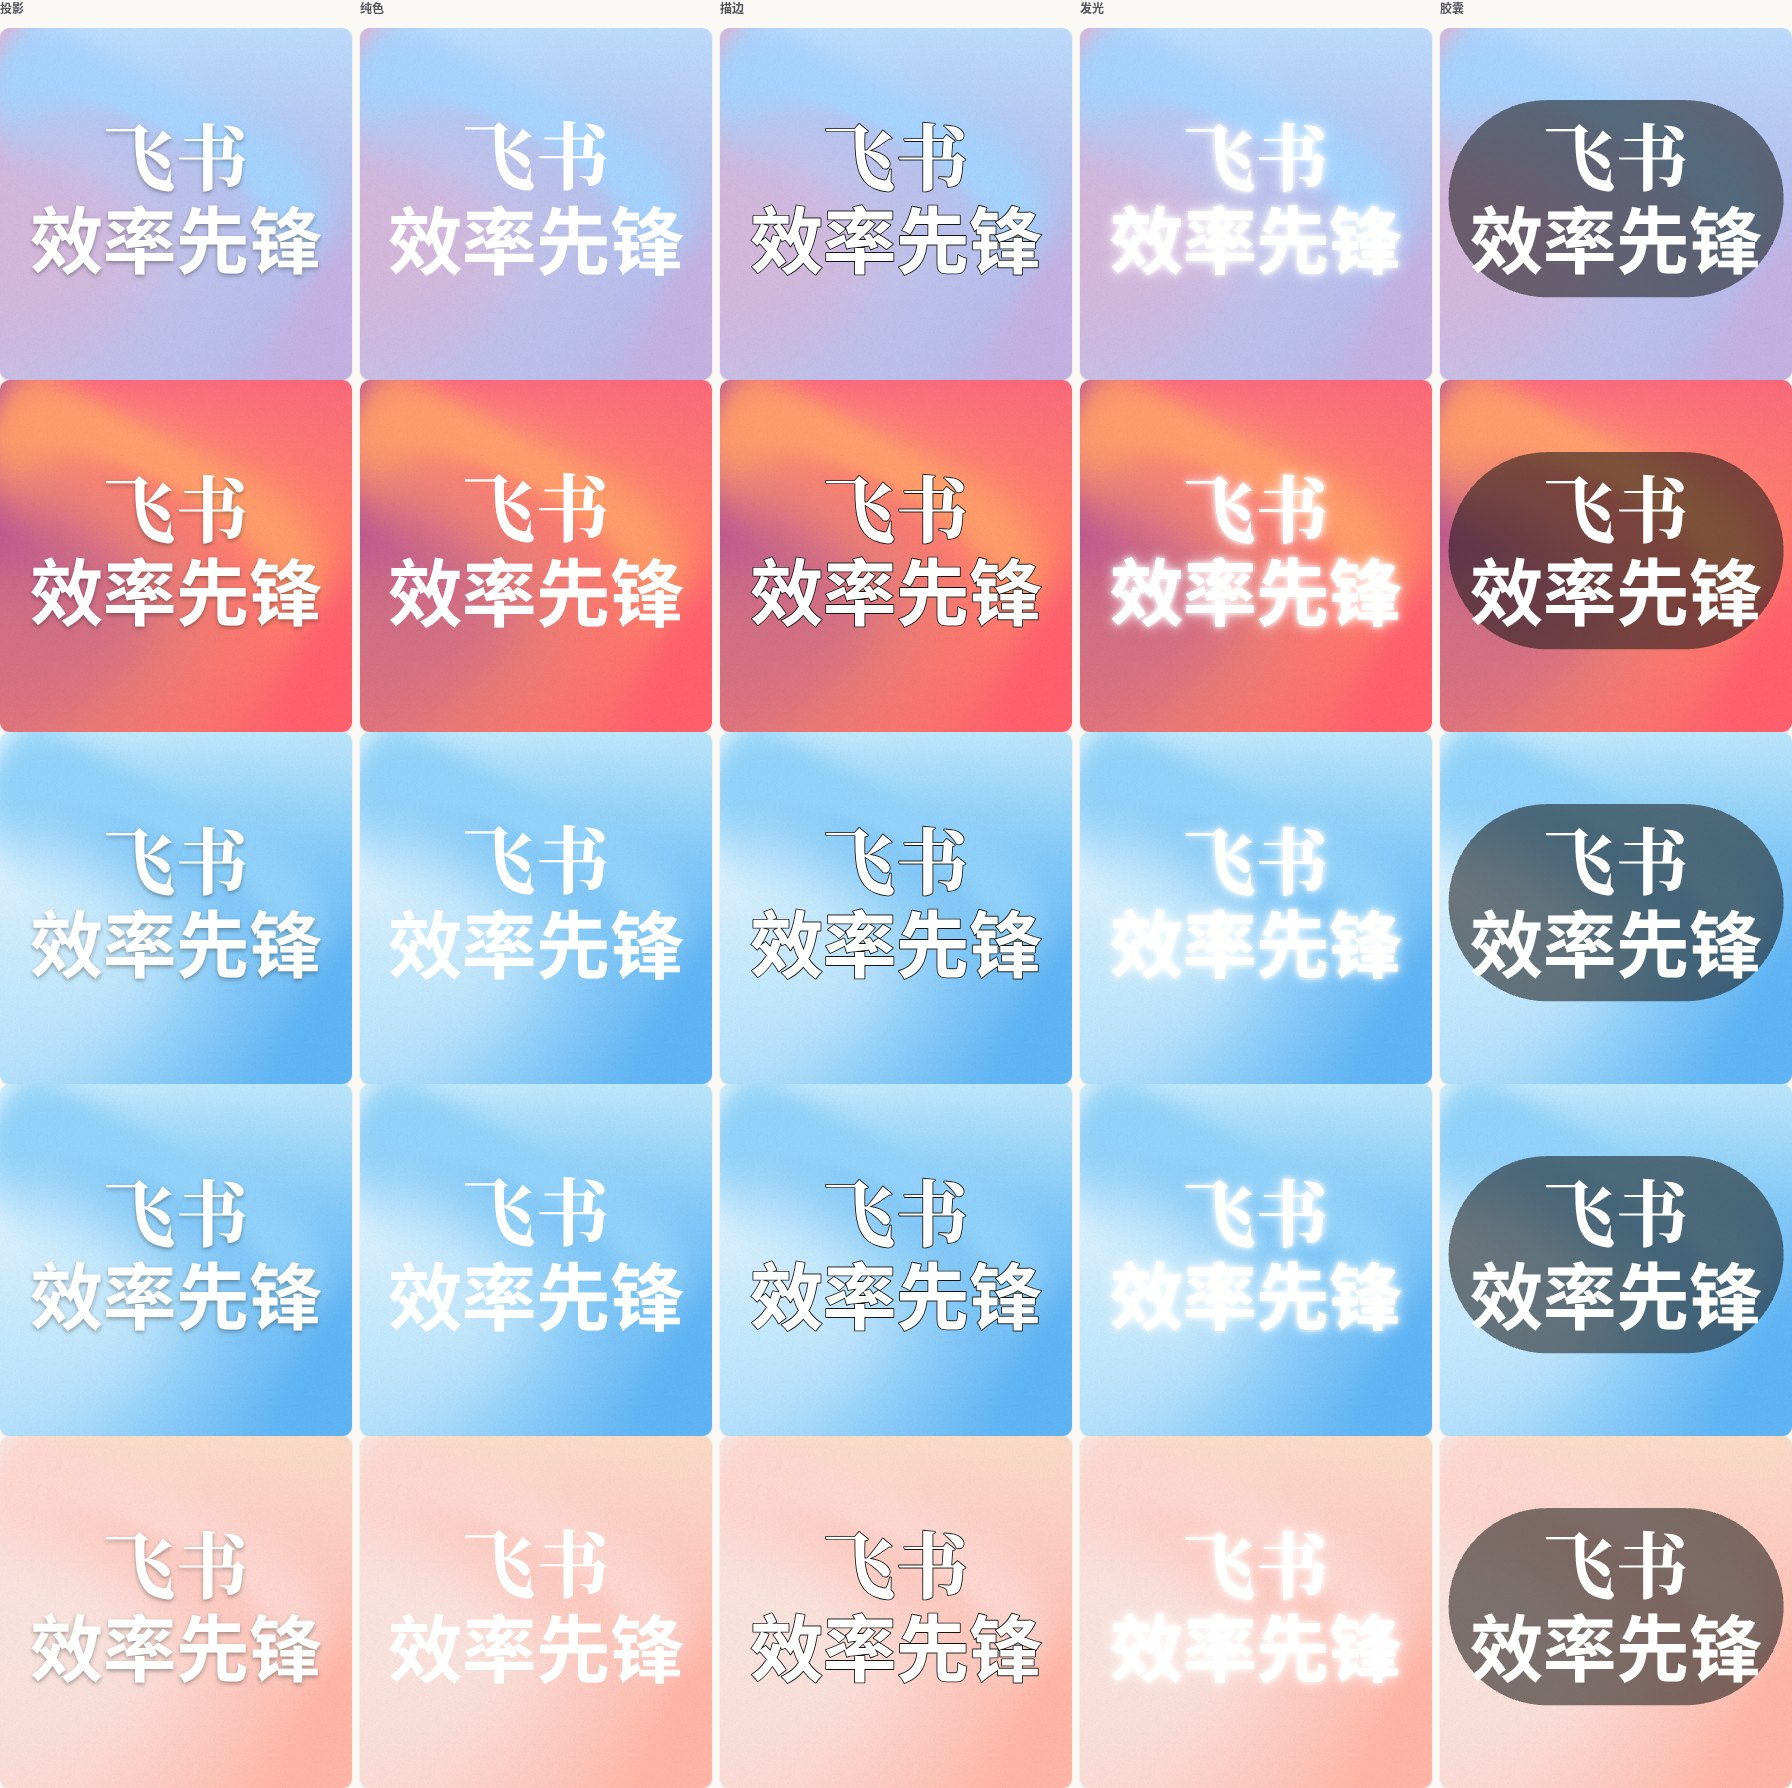
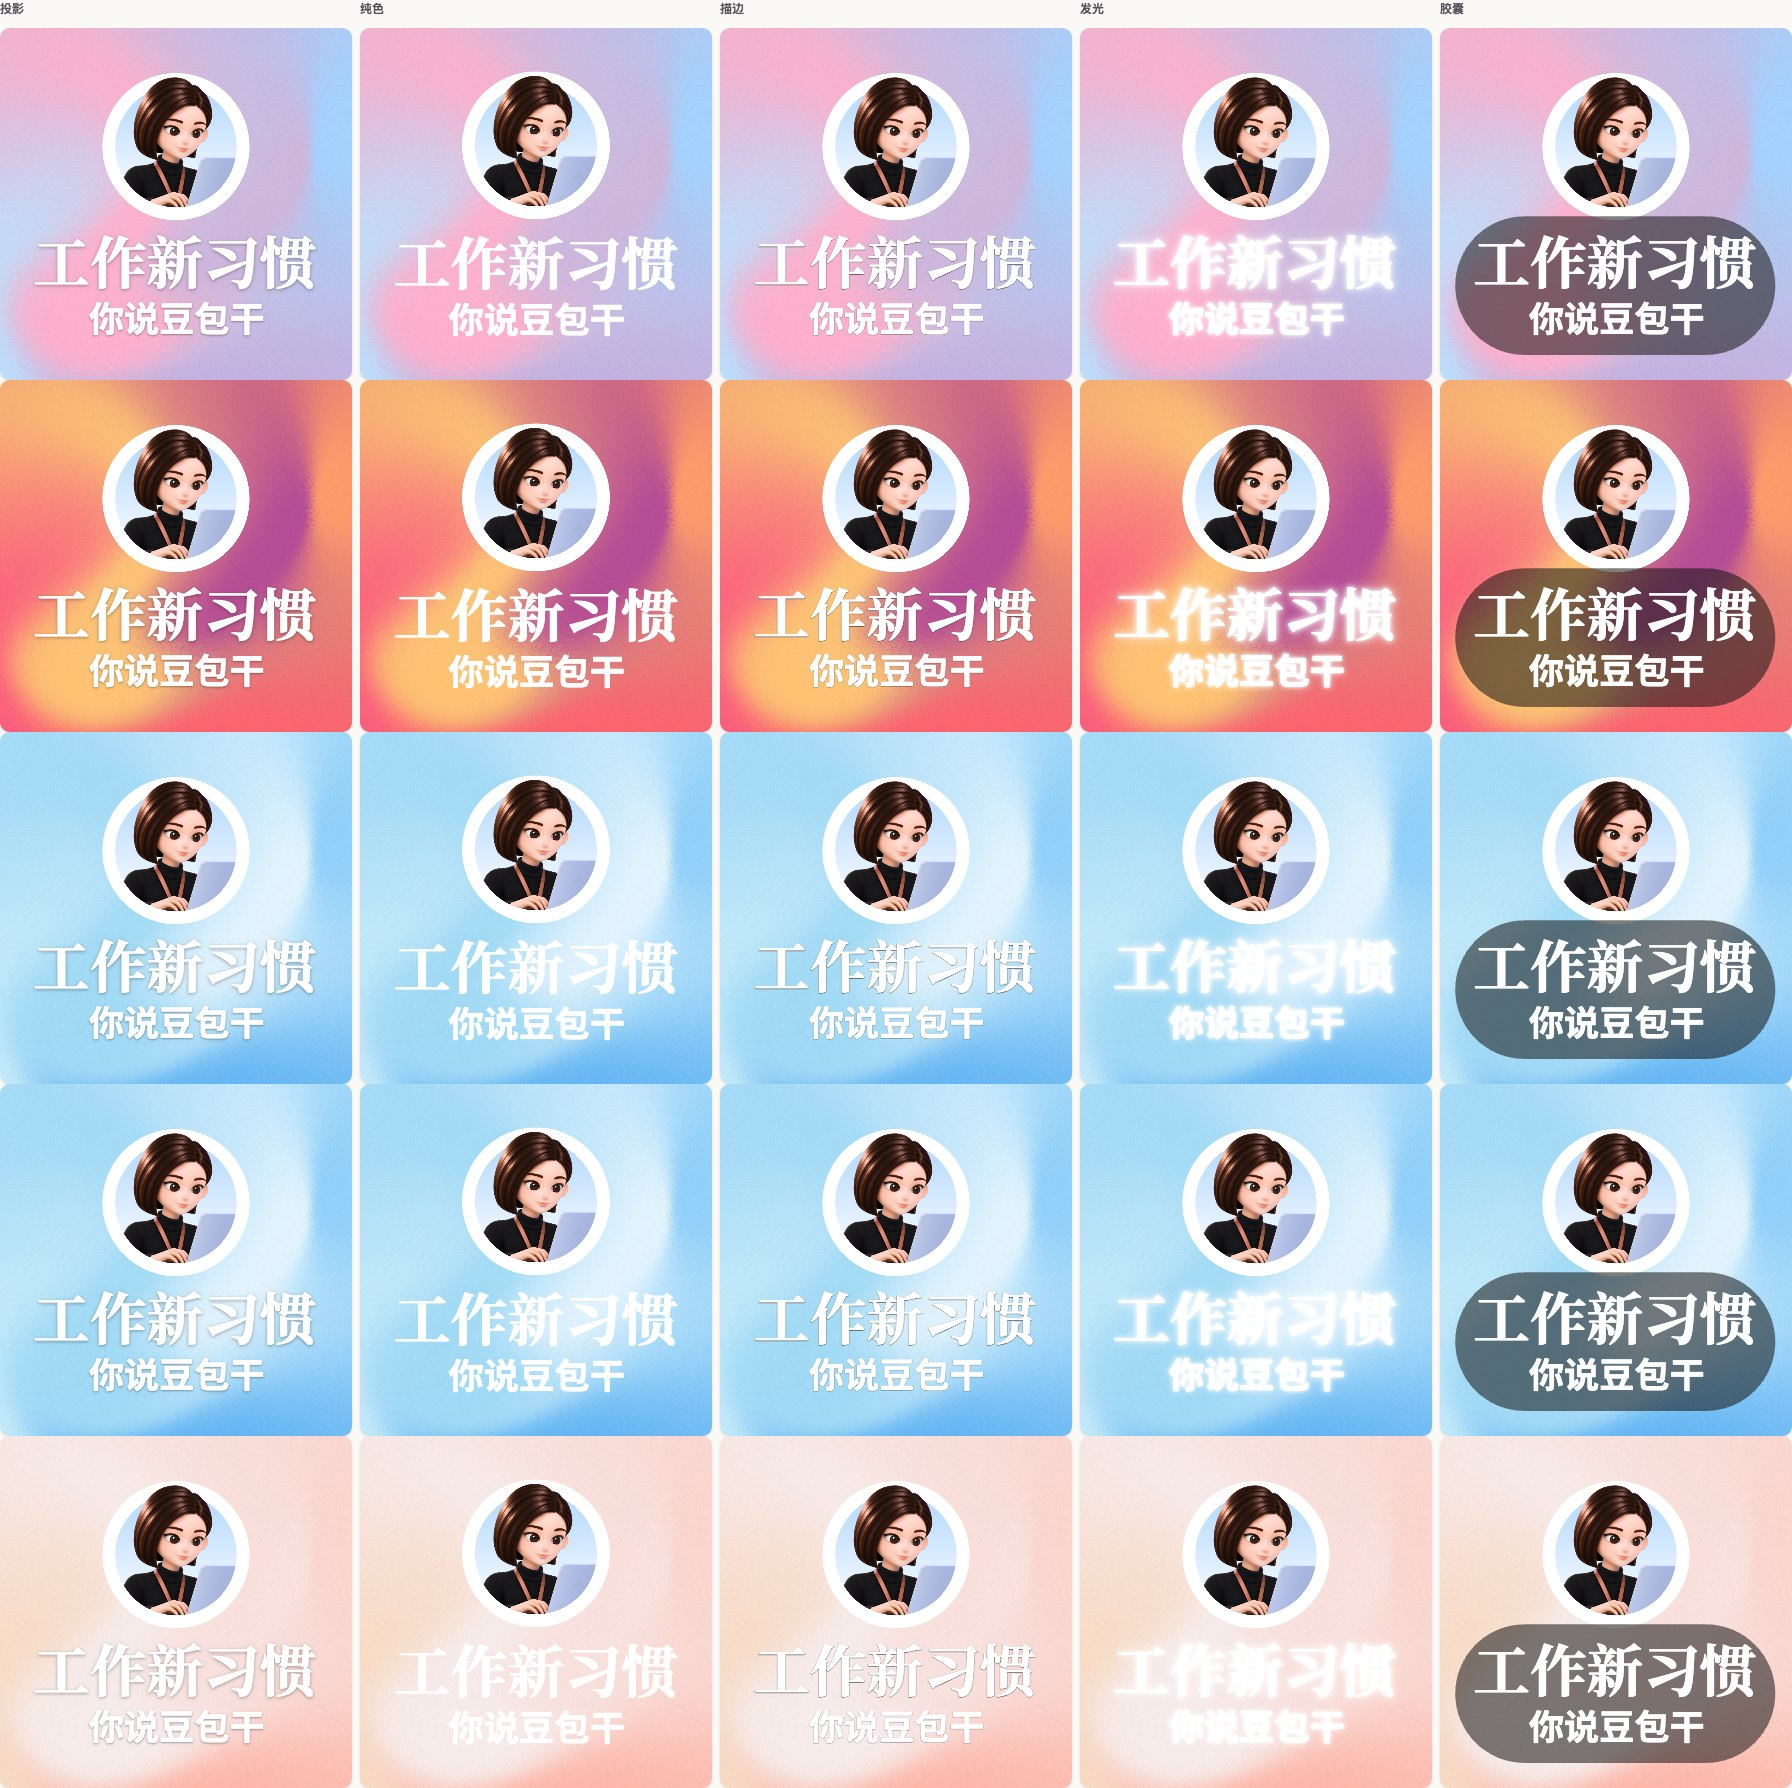
chore(release): 8.9.0

diff --git a/CHANGELOG.md b/CHANGELOG.md
@@ -1,5 +1,13 @@
 # 变更日志
 
+## 8.9.0 — 2026-11-12
+
+- 品牌库新增 ISV 分组：APTSell、北森、帆软、分贝通、合思、汇联易、Moka、小裂变、销售易、智慧芽、智书 11 个品牌的图标、组合标与字标，共 92 个原色、纯黑、纯白版本。
+- 豆包工作换成人物形象版图标与黑字、白字组合，旧版环形图标与组合删除，已保存的配置自动换成新图。
+- 不同宽高比的 Logo 分量更统一：素材的透明边不再算进 Logo 大小，飞书、今日头条、字节跳动纯白、QQ 等变大；宽高比 1 到 3.7 之间的 Logo 与方形 Logo 等面积，分贝通、Moka、Cloudflare 等变小。东黎预设保持原样。
+- 修复 Chrome、ChatGPT 图标缺色缺形；上传的 SVG 宽高写成百分比时也能正常显示。
+- 品牌与上传图形的旧历史缩略图会重新生成。
+
 ## 8.8.0 — 2026-11-12
 
 - 无图标的两行文字整体上下居中；带 Logo 的图文组也按看得见的内容居中。
